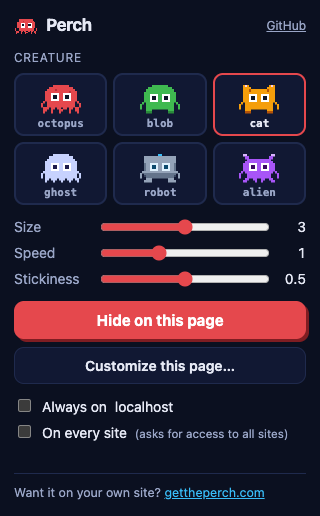
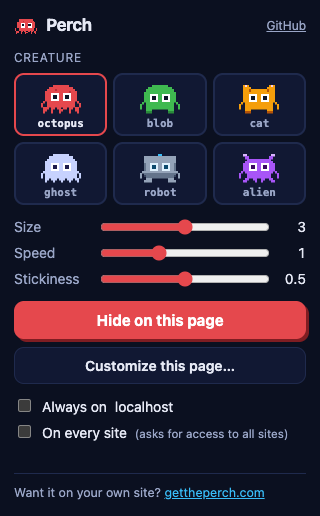
Store asset pack (five screenshots, both promo tiles), submission steps, no beta wording, Escape closes the tuner from anywhere

Changed region(s): [[0.0312, 0.124, 0.3438, 0.2791], [0.6562, 0.124, 0.9688, 0.2791]]

diff --git a/test/fixtures/blog.html b/test/fixtures/blog.html
@@ -1,0 +1,37 @@
+<!doctype html>
+<html lang="en">
+<head>
+<meta charset="utf-8">
+<meta name="viewport" content="width=device-width, initial-scale=1">
+<title>Field notes: a blog page for store screenshots</title>
+<style>
+  body { margin: 0; font: 19px/1.7 Georgia, "Times New Roman", serif; color: #1a1a1a; background: #fffdf8; }
+  header { border-bottom: 1px solid #e6dfcf; padding: 18px 28px; display: flex; gap: 22px; font-family: system-ui, sans-serif; font-size: 16px; }
+  header b { margin-right: auto; font-size: 20px; }
+  header a { color: #555; text-decoration: none; }
+  main { max-width: 700px; margin: 0 auto; padding: 36px 24px 80px; }
+  h1 { font: 800 44px/1.1 system-ui, sans-serif; letter-spacing: -0.03em; margin: 12px 0 8px; }
+  .meta { font: 15px system-ui, sans-serif; color: #888; margin-bottom: 26px; }
+  h2 { font: 700 26px/1.2 system-ui, sans-serif; margin: 34px 0 6px; }
+  p { margin: 0 0 16px; }
+  .sub { background: #f3ecd9; border-radius: 12px; padding: 18px 20px; margin: 26px 0; font-family: system-ui, sans-serif; }
+  .sub b { display: block; margin-bottom: 8px; }
+  .sub form { display: flex; gap: 8px; }
+  .sub input { flex: 1; padding: 10px; border: 1px solid #cfc4a6; border-radius: 8px; font: inherit; }
+  .sub button { padding: 10px 18px; border: 0; border-radius: 8px; background: #1a1a1a; color: #fff; font: 600 16px system-ui; }
+</style>
+</head>
+<body>
+<header><b>Field notes</b><a href="#">Essays</a><a href="#">Archive</a><a href="#">About</a></header>
+<main>
+  <h1>What a quiet morning teaches about shipping</h1>
+  <p class="meta">October 21 · 6 min read</p>
+  <p>Most weeks I plan too much. This week I planned one thing, a small tool for the team, and the rest of the time went to answering questions that nobody had asked yet.</p>
+  <h2>Start with the smallest useful thing</h2>
+  <p>The first version did one job. It took a list of tasks and put them in a sensible order. It was ugly, and it was the first thing we used every day.</p>
+  <div class="sub"><b>Get the next essay by email</b><form onsubmit="return false"><input placeholder="you@example.com" aria-label="Email"><button type="submit">Subscribe</button></form></div>
+  <h2>Let people use it before it is ready</h2>
+  <p>Feedback on a rough tool is honest. Feedback on a polished one is polite. I would rather have the honest kind, so the tool went out on day two.</p>
+</main>
+</body>
+</html>

diff --git a/scripts/build-site.ts b/scripts/build-site.ts
@@ -36,7 +36,7 @@ const pages: Page[] = [];
 const STORE = cfg.extension.chromeStoreUrl;
 const extButton = (cls = "btn primary") => STORE
   ? `<a class="${cls}" href="${STORE}" rel="noopener">Add to Chrome</a>`
-  : `<a class="${cls}" href="/extension/#install">Get the extension (beta)</a>`;
+  : `<a class="${cls}" href="/extension/#install">Get the extension</a>`;
 
 function layout(p: Page): string {
   const url = abs(p.path);
@@ -387,7 +387,7 @@ pages.push({
 <h1>Put a pixel creature on any website you visit</h1>
 <p>The Perch extension runs the same creature as the <a href="/">library</a> on the pages you open. It stands on the page's real headings, text and buttons, rides them while you scroll, and points at the main button. Free and open source.</p>
 <h2 id="install">Install</h2>
-${STORE ? `<p>${extButton()}</p><p class="fine" style="color:var(--muted)">Works in Chrome and other Chromium browsers (Edge, Brave, Arc).</p>` : `<div class="note"><strong>Beta.</strong> The extension is not in the Chrome Web Store yet. You can install it by hand in about a minute.</div>
+${STORE ? `<p>${extButton()}</p><p class="fine" style="color:var(--muted)">Works in Chrome and other Chromium browsers (Edge, Brave, Arc).</p>` : `<div class="note">The Chrome Web Store listing is waiting for review. Until it is live, you can install the extension by hand in about a minute.</div>
 <ol>
 <li><a class="btn primary" href="${cfg.extension.zip}" download>Download perch-extension.zip</a> (v${EXT_VERSION}) and unzip it.</li>
 <li>Open <code>chrome://extensions</code> and switch on <strong>Developer mode</strong> (top right).</li>

diff --git a/src/tuner.ts b/src/tuner.ts
@@ -132,7 +132,10 @@ export function mountTuner(api: PerchApi, hooks: TunerHooks = {}): () => void {
   const out = $<HTMLTextAreaElement>(".out");
   const field = (id: string) => $<HTMLInputElement>("#" + id);
 
+  // Escape closes the editor, then the panel, wherever the focus is (the page's own key handlers come first)
+  const onEscape = (e: KeyboardEvent) => { if (e.key === "Escape" && !e.defaultPrevented) { if (editor) closeEditor(); else show(false); } };
   const show = (open: boolean) => {
+    if (open) addEventListener("keydown", onEscape); else removeEventListener("keydown", onEscape);
     panel.hidden = !open; gear.hidden = open || hooks.gear === false;
     gear.setAttribute("aria-expanded", String(open));
     if (open) (panel.querySelector("select") as HTMLElement).focus(); else gear.focus();

diff --git a/extension/README.md b/extension/README.md
@@ -40,17 +40,51 @@ Chrome 137 and later ignore `--load-extension` in the branded Chrome build, so t
 
 ## Release to the Chrome Web Store
 
-1. **Developer account:** https://chrome.google.com/webstore/devconsole, sign in, accept the terms. Chrome charges a one-time registration fee (about $5; check the current amount on the sign-up page).
-2. **Bump the version** in `manifest.json` (every upload needs a higher number), then `bun run extension:build`.
-3. **Upload** `extension-dist/perch-extension.zip` as a new item.
-4. **Store listing** (text below). Screenshots: `extension/store/ext-page.png`, `ext-editor.png`, `ext-popup.png` (1280 x 800 and a 320 wide popup). Small promo tile: `extension/store/promo-small-440x280.png`. Category: Fun, or Developer Tools. Language: English.
-5. **Privacy tab:** privacy policy URL `https://gettheperch.com/extension/privacy/`. Single purpose: "Show a pixel creature on web pages the user chooses." Declare: no personal data collected, no remote code. Permission reasons:
-   - `activeTab`: add the creature to the tab the user clicks.
-   - `scripting`: inject the creature script into that tab.
-   - `storage`: save the user's creature and settings.
-   - Optional all-sites access: only if the user turns on "On every site" or "Always on this site".
-6. **Submit for review.** Reviews can take from hours to several days, and broad host permissions slow them down, which is why the default is `activeTab`.
-7. **When it is approved:** copy the store URL into `site/config.json` under `extension.chromeStoreUrl`, run `vercel deploy --prod`. The site buttons change from "Get the extension (beta)" to "Add to Chrome". Add the badge to the README.
+What blocks a real "Add to Chrome" link is only Google: Chrome installs extensions from its store, and a store listing needs your developer account and a review. Everything else is prepared in this folder.
+
+**1. Developer account (once, about 10 minutes).** https://chrome.google.com/webstore/devconsole: sign in with the Google account that should own the listing, accept the terms, pay the one-time registration fee (about $5; the page shows the current amount) and complete the identity or contact verification it asks for.
+
+**2. New item.** Upload `extension-dist/perch-extension.zip` (`bun run extension:build` makes it). The version comes from `manifest.json`; every later upload needs a higher number.
+
+**3. Store listing tab.**
+
+| Field | Use |
+|---|---|
+| Name, summary, description | The listing text below |
+| Category | Fun (or Developer Tools) |
+| Language | English |
+| Icon (128 x 128) | Taken from the zip (`icons/icon-128.png`) |
+| Screenshots (up to 5, 1280 x 800) | `store/ext-popup-1280x800.png`, `store/ext-page.png`, `store/ext-pick.png`, `store/ext-editor.png`, `store/ext-blog.png` |
+| Small promo tile (440 x 280) | `store/promo-small-440x280.png` |
+| Marquee promo tile (1400 x 560, optional, used when featured) | `store/promo-marquee-1400x560.png` |
+| Promo video (optional) | A YouTube link. Not needed for approval |
+| Homepage / support URL | `https://gettheperch.com/extension/` and `https://github.com/mishanefedov/perch/issues` |
+
+**4. Privacy tab.**
+
+- Privacy policy URL: `https://gettheperch.com/extension/privacy/`
+- Single purpose: "Show a pixel creature on the web pages the user chooses."
+- Permission reasons:
+  - `activeTab`: add the creature to the tab the user clicks.
+  - `scripting`: inject the creature script into that tab.
+  - `storage`: save the user's creature and settings.
+  - Optional access to all sites: only if the user turns on "On every site" or "Always on this site", so the creature can show up without a click.
+- Remote code: No. All code is inside the package.
+- Data usage: collects no user data. Tick the three certifications (not sold, not used for unrelated purposes, not used for creditworthiness).
+
+**5. Test instructions** (the reviewer notes field):
+
+```
+No account or login is needed. After installing, open any normal web page (for example https://example.com), click the Perch toolbar icon and press "Show on this page". A small pixel creature appears and walks on the page's headings and text. Press "Customize this page" to open the settings panel (swap creature, pixel editor, pick goal). "Always on this site" and "On every site" ask for host permission first. The extension collects no data and makes no network requests. Source: https://github.com/mishanefedov/perch/tree/main/extension
+```
+
+**6. Distribution.** Visibility: Public. Regions: all. Submit for review. Reviews can take hours to several days, and broad host permissions slow them down, which is why the default is `activeTab`.
+
+**7. When it is approved (about two minutes of work).** Copy the listing URL into `site/config.json` under `extension.chromeStoreUrl`, then `vercel deploy --prod`. Every "Get the extension" button on gettheperch.com becomes "Add to Chrome" and links to the store. Add the store badge to the README.
+
+**Also publish to Microsoft Edge Add-ons.** The same zip works unchanged. The dev account at https://partner.microsoft.com/dashboard/microsoftedge is free. It gives Edge users a one-click link too.
+
+**Later releases can be automated.** After the first upload, the Chrome Web Store API can publish new versions from CI (it needs an OAuth client and refresh token stored as repository secrets). Not set up yet.
 
 Listing text:
 
